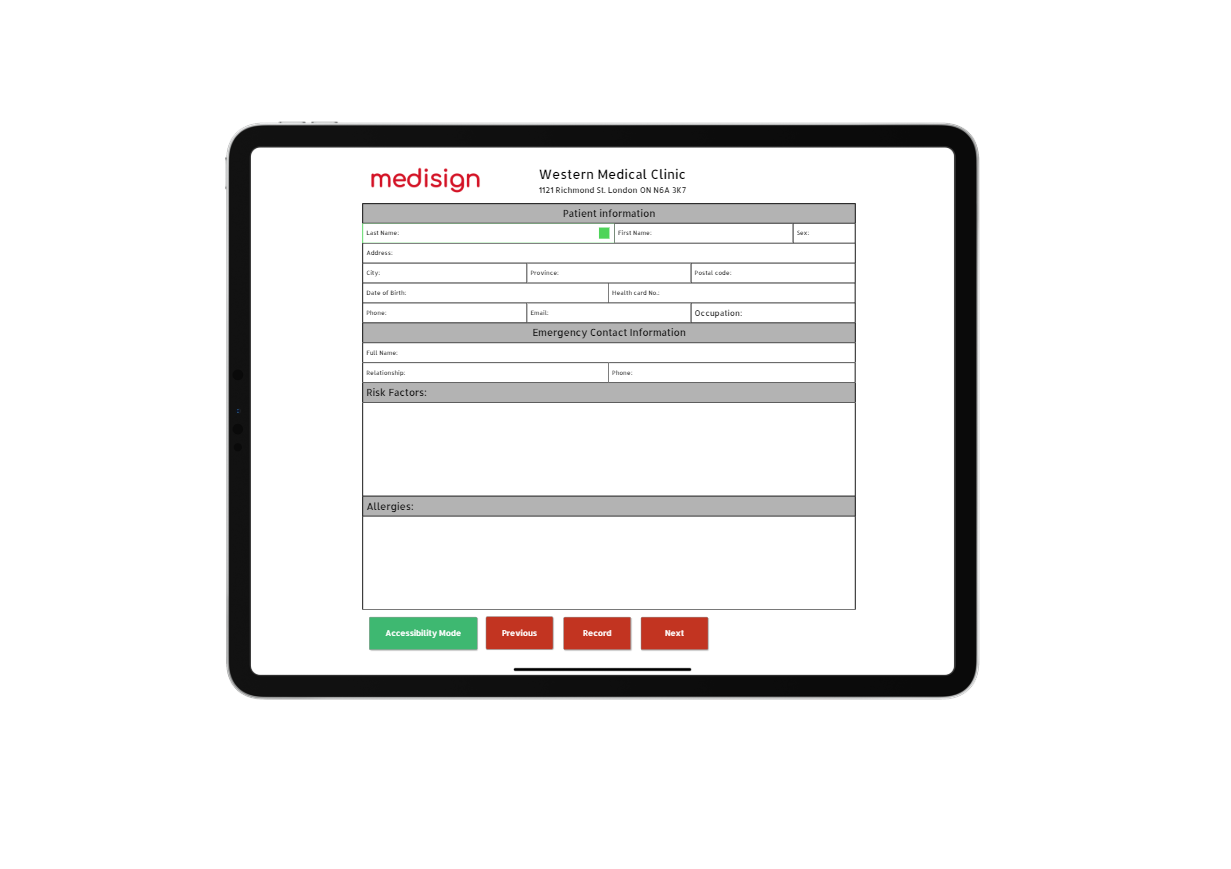
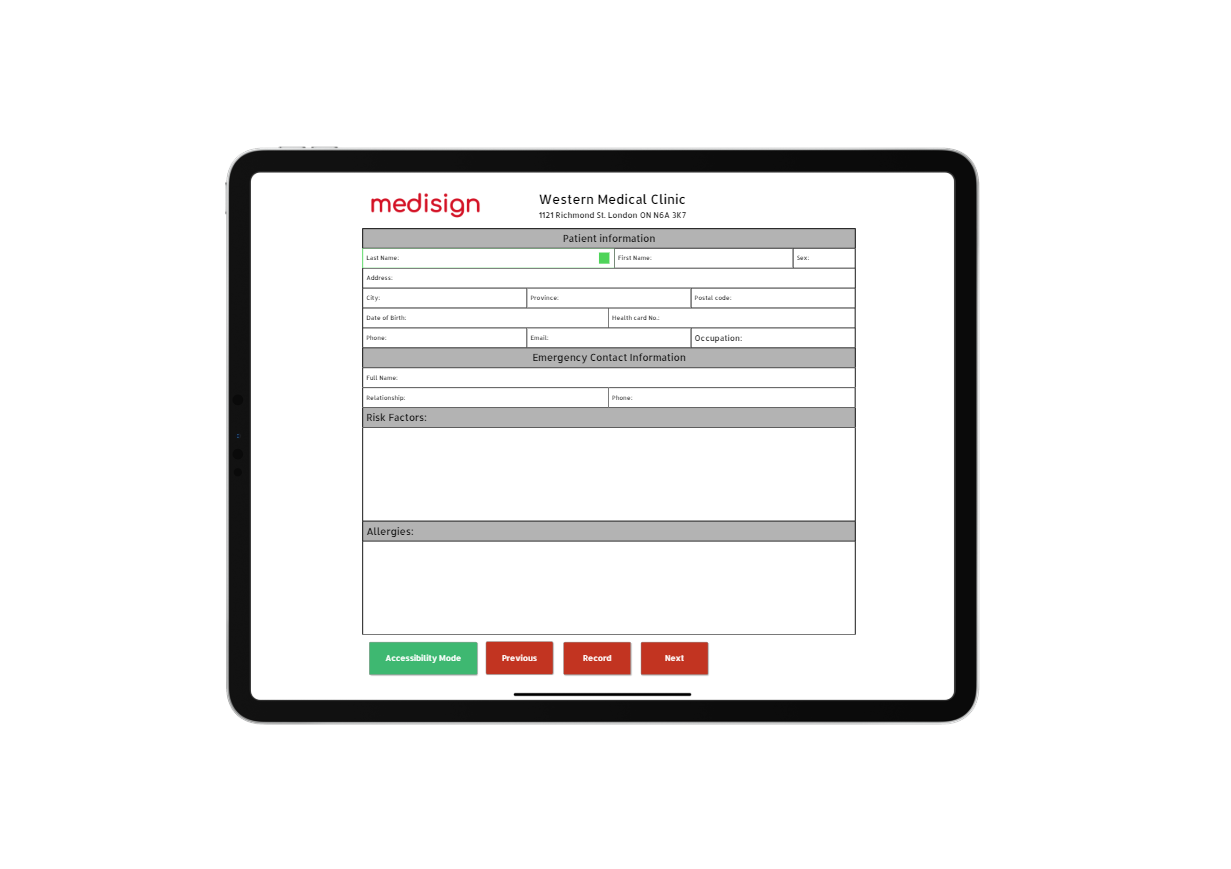
reformatted photos for better display

Changed region(s): [[0.1852, 0.1243, 0.8026, 0.4971], [0.1852, 0.6835, 0.8026, 0.8389], [0.2778, 0.5593, 0.71, 0.6214]]

diff --git a/_projects/insureHome.md b/_projects/insureHome.md
@@ -1,6 +1,6 @@
 ---
 title: Insure Home
-img: /assets/img/insurehome.PNG
+img: /assets/img/insurehome2.png
 Technologies: Python, Flask, Azure, React Native
 link: https://github.com/kevinfwl/HackTheSix-Home-Insurance-App
 ---

diff --git a/_projects/medisign.md b/_projects/medisign.md
@@ -1,6 +1,6 @@
 ---
 title: Medisign
-img: /assets/img/medisign.JPG
+img: /assets/img/medisign.PNG
 Technologies: NodeJS, MongoDB, GCP, React Native
 link: https://github.com/kevinfwl/Medisign
 ---
